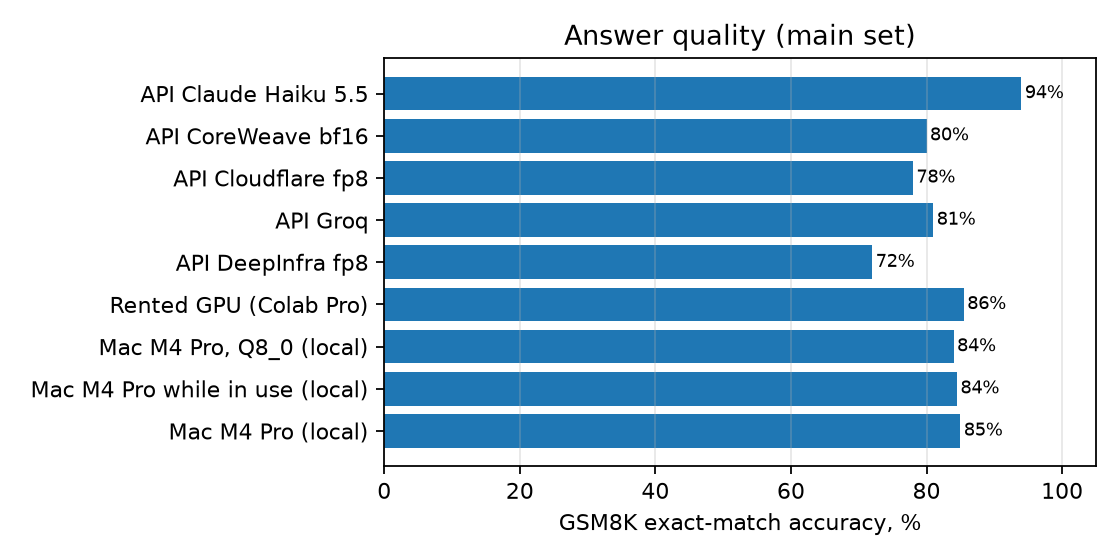
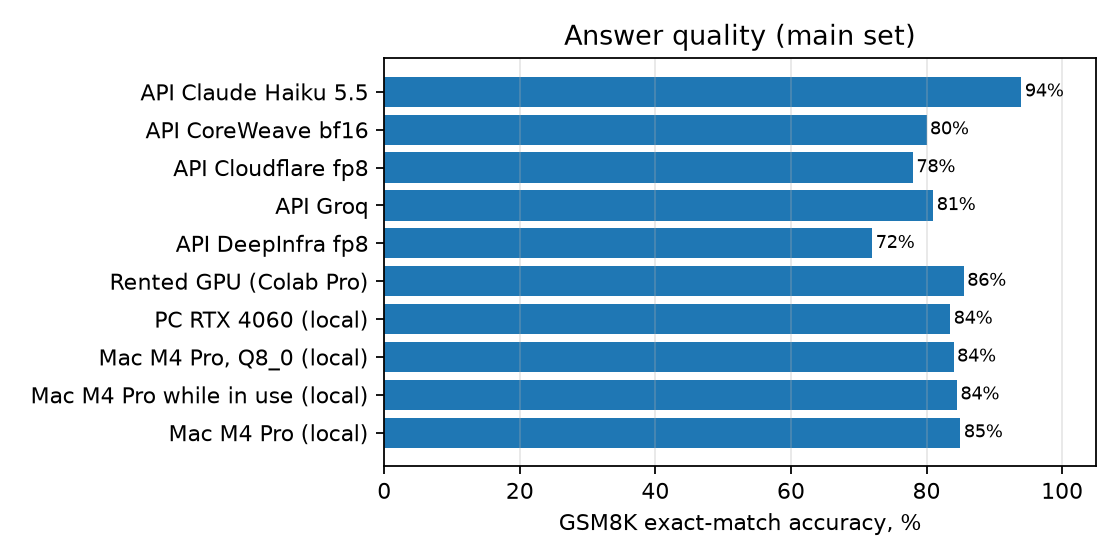
Final report with the PC condition; prompt-cache finding documented

diff --git a/docs/research_log.md b/docs/research_log.md
@@ -33,3 +33,5 @@ One row per working session, trial batch or model run. Times are Astana time (UT
 | 23.10.2026 06:20 | Aitbek | Final processing for the report without the PC: summarize.py, energy.py, cost_model.py, make_figures.py; archives for the Drive mirror rebuilt; repository pushed. | - | - |
 | 23.10.2026 22:55 to 23:49 | Aitbek (scripted run on the PC) | PC condition pc_rtx4060 (Windows 11, RTX 4060 8 GB, Ryzen 9 7900X). Run started 22:55:44, finished 23:49:22 (power log stopped 23:49:55). llama.cpp b11840 (commit 36e36e63a, llama-b11840-bin-win-cuda-12.4-x64 + cudart 12.4), NVIDIA driver 610.88. Model sha256 matched (7b064f58...557c). Server log: "offloaded 33/33 layers to GPU", 7.4 of 8.2 GB VRAM used, no out-of-memory, so serve_pc.ps1 was run unchanged (no -ctk/-ctv q8_0). Full protocol (run_pc.ps1): pilot throughput 6 levels, pilot quality, main throughput 9 levels, main quality 2 repeats; 2,330 requests, 0 errors. Main throughput: 48 tok/s at c=1, 80 at c=4, 269 to 282 at c=16; GSM8K accuracy 0.83 and 0.84 (pilot 0.867). Before the run, Telegram, WhatsApp, FACEIT, Teams, Edge, OneDrive and Settings were closed; Chrome (one GitHub tab, minimised) and iCUE (fan control) stayed open. | (1) nvidia-smi reports CUDA 13.3, not 12.x (newer driver; it runs the CUDA 12.4 build). (2) Driver 610.88 under WDDM returns [N/A] for power.draw in --query-gpu, so power_pc.ps1 logged no watts. (3) At the default log level this llama.cpp build does not print the "offloaded" line; the first server start (22:53) was stopped and restarted with LLAMA_ARG_LOG_VERBOSITY=4 (environment variable only, same arguments). The verbose log reached 238 MB. (4) The pilot and main c=4 results differ (147 vs 80 tok/s), the same pilot-vs-main gap seen on the Mac. | A second power logger was started at 22:57:08 next to window 2: it reads "Power Samples" from nvidia-smi -q -d POWER once per second into runs/pc_rtx4060/power_samples_*.csv (same column names, parsed by energy.py), mean about 100 to 110 W under load. There is no power data for 22:55:45 to 22:57:08 (start of pilot c=1). runs/pc_server.log keeps only the server start-up part (215 lines up to "all slots are idle"); the full log is not committed (over the GitHub 100 MB limit). The PowerShell UTF-16 output of power_*.csv and runs/main_pc_console.log was re-saved as UTF-8. Screenshot pc_run_done.png shows the run console log re-printed in a new window, because the summarize table had scrolled the "done:" lines out of window 3. summarize.py on Windows wrote run_file paths in results/requests_all.csv with backslashes; they were turned back into forward slashes so that only the 2,330 new PC rows change. |
 | 23.10.2026 | Aitbek (scripted run on the PC) | Ran bench/energy.py and bench/cost_model.py main with the PC data. PC GPU power by level: about 111 W at concurrency 1 and 4, 103.4 W mean at concurrency 16 (main). PC cost per 1,000 requests (dedicated): 1.358 / 0.137 / 0.0147 USD at 1k / 10k / 100k requests per day; capacity 202,255 requests per day. Break-even against api_deepinfra (0.00546 USD): none below capacity for the dedicated PC; 100,000 per day for the shared developer machine; 79,433 per day for pc_rtx4060_budget shared. Only pc_rtx4060 and pc_rtx4060_budget rows changed in results. | prices.json had load_watts_measured = null for pc_rtx4060 and pc_rtx4060_budget, and there is no load_watts_assumed, so cost_model.py would have used 0 W under load. | load_watts_measured filled in by the rule already stated in prices.json and used for the Mac (mean GPU power over the concurrency-16 main levels): 103.4 W + 80 W = 183.4 W (pc_rtx4060), 103.4 W + 60 W = 163.4 W (budget). The source text notes that the GPU power comes from the nvidia-smi "Power Samples" log. Figures and the report were not rebuilt. |
+| 24.10.2026 00:05 | Aitbek | Pulled the PC results, recomputed summarize, energy, cost_model and figures on the Mac: identical numbers to the PC run (PC 2,330/2,330 OK, capacity 202,255 requests/day, accuracy 0.835, 105 to 112 W GPU). | The PC server log says "prompt cache is enabled ... use --cache-ram 0 to disable"; the Mac log also shows "making room for prompt cache entry". So --no-cache-prompt did not disable the RAM prompt cache in any local build. Checked the effect: median TTFT of repeat 1 equals repeats 2 and 3 on all three machines, decode speed unchanged; no measurable effect, documented in Segment 4 T3. | Report text corrected; serve scripts left as run (changing them now would make the PC and Mac runs incomparable). |
+| 24.10.2026 00:10 | Aitbek | Final report built with all conditions; Drive mirror refreshed; repository pushed. | - | - |
